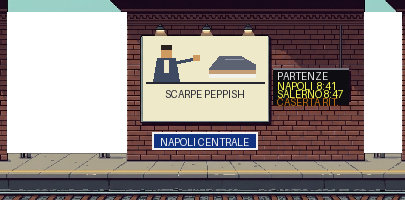
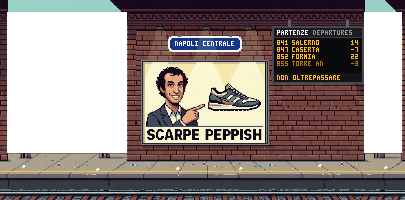
cambi in grafiche: garibaldi cartellone pubblicitario, napoli centrale, tabellone orari

diff --git a/docs/genera-stazione.py b/docs/genera-stazione.py
@@ -1,4 +1,5 @@
 from PIL import Image, ImageDraw
+import font3x5
 import numpy as np, os
 
 SRC = Image.open("/mnt/user-data/uploads/Gemini_Generated_Image_prtqerprtqerprtq.jpeg").convert("RGB")
@@ -47,71 +48,145 @@ dp = ImageDraw.Draw(parete)
 for (x0, x1) in ap:
     dp.rectangle([x0, 12, x1 - 1, GROUND_G - 16], fill=(0, 0, 0, 0))
 
-# --- cartellone: contenuto disegnato a risoluzione di gioco ------------
-BX, BY, BW_, BH_ = 143, 36, 124, 84
+# --- ricopro il pannello vuoto dell'originale con mattoni --------------
+# I mattoni li campiono dalla parete stessa, a destra del tabellone, cosi'
+# la toppa ha la stessa trama e la stessa luce.
 db = ImageDraw.Draw(parete)
-CREMA, SCURO = (238, 233, 201, 255), (38, 38, 48, 255)
-db.rectangle([BX, BY, BX + BW_, BY + BH_], fill=CREMA)
-db.rectangle([BX + 3, BY + 46, BX + BW_ - 3, BY + 47], fill=SCURO)
-# figura generica che indica
-db.rectangle([BX + 18, BY + 12, BX + 28, BY + 21], fill=(206, 154, 96, 255))
-db.rectangle([BX + 18, BY + 9,  BX + 28, BY + 13], fill=(42, 34, 30, 255))
-db.polygon([(BX + 14, BY + 22), (BX + 32, BY + 22), (BX + 36, BY + 45), (BX + 10, BY + 45)],
-           fill=(62, 74, 98, 255))
-db.rectangle([BX + 21, BY + 24, BX + 25, BY + 36], fill=CREMA)
-db.line([BX + 32, BY + 26, BX + 52, BY + 22], fill=(62, 74, 98, 255), width=4)
-db.rectangle([BX + 50, BY + 19, BX + 56, BY + 24], fill=(206, 154, 96, 255))
-# scarpa senza marchio
-db.polygon([(BX + 66, BY + 32), (BX + 76, BY + 20), (BX + 98, BY + 20),
-            (BX + 112, BY + 28), (BX + 112, BY + 35), (BX + 66, BY + 35)], fill=(92, 98, 114, 255))
-db.rectangle([BX + 66, BY + 34, BX + 112, BY + 39], fill=(198, 158, 118, 255))
-db.rectangle([BX + 66, BY + 38, BX + 112, BY + 41], fill=(242, 242, 236, 255))
-db.line([BX + 82, BY + 23, BX + 100, BY + 23], fill=(146, 154, 172, 255), width=1)
-t = "SCARPE PEPPISH"
-tw = db.textlength(t)
-db.text((BX + (BW_ - tw) / 2, BY + 52), t, fill=SCURO)
+mattone = parete.crop((296, 110, 344, 150))   # muro vero: sotto il vecchio tabellone
+# due zone: il pannello vuoto del cartellone, e il vecchio tabellone
+# dell'originale, che altrimenti resterebbe visibile sotto quello nuovo.
+for (rx0, ry0, rx1, ry1) in [(136, 30, 274, 130), (282, 60, 356, 108)]:
+    for yy in range(ry0, ry1, mattone.height):
+        for xx in range(rx0, rx1, mattone.width):
+            ritaglio = mattone.crop((0, 0, min(mattone.width, rx1 - xx),
+                                     min(mattone.height, ry1 - yy)))
+            parete.alpha_composite(ritaglio, (xx, yy))
 
-# --- tabellone partenze, in italiano ----------------------------------
-righe = [("NAPOLI  8:41", (255, 255, 85, 255)),
-         ("SALERNO 8:47", (255, 255, 85, 255)),
-         ("CASERTA RIT.", (190, 110, 20, 255))]
-TW = round(max(db.textlength(r) for r, _ in righe)) + 8
-TH = 36
-TX, TY = 348 - TW, 68
-db.rectangle([TX, TY, TX + TW, TY + TH], fill=(14, 14, 18, 255))
-db.rectangle([TX, TY, TX + TW, TY + 1], fill=(120, 120, 130, 255))
-db.text((TX + 4, TY + 2), "PARTENZE", fill=(235, 235, 235, 255))
-for i, (r, col) in enumerate(righe):
-    db.text((TX + 4, TY + 12 + i * 8), r, fill=col)
-
-# --- cartello di stazione, blu con bordo bianco -----------------------
+# --- cartello di stazione, SOPRA, come quelli delle stazioni italiane --
 nome = "NAPOLI CENTRALE"
-SW = round(db.textlength(nome)) + 16
-SH = 17
-SX, SY = BX + (BW_ - SW) // 2, 132
-BLU = (18, 52, 128, 255)
-db.rectangle([SX, SY, SX + SW, SY + SH], fill=(240, 240, 240, 255))
-db.rectangle([SX + 2, SY + 2, SX + SW - 2, SY + SH - 2], fill=BLU)
-db.text((SX + 8, SY + 4), nome, fill=(245, 245, 245, 255))
+SW = font3x5.larghezza(nome) + 14
+SH = 15
+SX, SY = 143 + (124 - SW) // 2, 36
+BLU = (20, 54, 132, 255)
+db.rounded_rectangle([SX, SY, SX + SW, SY + SH], radius=4, fill=(244, 244, 244, 255))
+db.rounded_rectangle([SX + 2, SY + 2, SX + SW - 2, SY + SH - 2], radius=3, fill=BLU)
+font3x5.scrivi(db, SX + 7, SY + 5, nome, (248, 248, 248, 255))
+# staffe di fissaggio
+for sx in (SX + 10, SX + SW - 12):
+    db.rectangle([sx, SY - 3, sx + 2, SY], fill=(96, 96, 108, 255))
+
+# --- coni di luce delle tre lampade, sopra il cartello -----------------
+luce = Image.new("RGBA", parete.size, (0, 0, 0, 0))
+dl = ImageDraw.Draw(luce)
+for lx in (160, 206, 251):
+    dl.polygon([(lx - 4, 30), (lx + 4, 30), (lx + 13, 62), (lx - 13, 62)],
+               fill=(255, 250, 205, 34))
+parete.alpha_composite(luce)
+
+# --- cartellone pubblicitario, SOTTO -----------------------------------
+PUB = Image.open("/mnt/user-data/uploads/pubbli-fetish.png").convert("RGBA")
+BW_, BH_ = 128, round(128 * PUB.height / PUB.width)
+BX, BY = 143 + (124 - BW_) // 2, 60
+pub = PUB.resize((BW_ - 4, BH_ - 4), N)
+db.rectangle([BX, BY, BX + BW_ - 1, BY + BH_ - 1], fill=(122, 122, 134, 255))
+db.rectangle([BX + 1, BY + 1, BX + BW_ - 2, BY + BH_ - 2], fill=(38, 38, 46, 255))
+parete.alpha_composite(pub, (BX + 2, BY + 2))
+# ombra sotto la cornice, per staccarla dal muro
+omb = Image.new("RGBA", (BW_ + 3, 3), (0, 0, 0, 70))
+parete.alpha_composite(omb, (BX + 2, BY + BH_))
+
+# --- tabellone partenze, sul modello di quelli Trenitalia -------------
+# Struttura del vero: intestazione bianca bilingue, righe in ambra su nero,
+# in basso la striscia con l'avviso sulla linea gialla. Scritte col font
+# 3x5, perche' il font di sistema a queste dimensioni e' illeggibile.
+TX, TY, TW, TH = 274, 28, 88, 54
+AMBRA = (255, 184, 28, 255)
+AMBRA_SCURA = (182, 112, 10, 255)
+db.rectangle([TX - 2, TY - 2, TX + TW + 1, TY + TH + 1], fill=(72, 72, 80, 255))
+db.rectangle([TX, TY, TX + TW - 1, TY + TH - 1], fill=(10, 10, 12, 255))
+db.rectangle([TX, TY, TX + TW - 1, TY + 8], fill=(28, 28, 32, 255))
+font3x5.scrivi(db, TX + 3, TY + 2, "PARTENZE", (246, 246, 246, 255))
+font3x5.scrivi(db, TX + 39, TY + 2, "DEPARTURES", (144, 144, 150, 255))
+db.line([TX, TY + 9, TX + TW - 1, TY + 9], fill=(58, 58, 64, 255))
+
+corse = [("841", "SALERNO",  "14", False),
+         ("847", "CASERTA",  "-7", False),
+         ("852", "FORMIA",   "22", False),
+         ("855", "TORRE AN", "-3", True)]
+for i, (ora, dest, bina, ritardo) in enumerate(corse):
+    y = TY + 12 + i * 7
+    col = AMBRA_SCURA if ritardo else AMBRA
+    font3x5.scrivi(db, TX + 3, y, ora, col)
+    font3x5.scrivi(db, TX + 18, y, dest, col)
+    font3x5.scrivi(db, TX + TW - 11, y, bina, col)
+    if ritardo:
+        font3x5.scrivi(db, TX + 18, y, dest, col)
+
+db.rectangle([TX, TY + TH - 9, TX + TW - 1, TY + TH - 1], fill=(20, 20, 22, 255))
+font3x5.scrivi(db, TX + 3, TY + TH - 7, "NON OLTREPASSARE", AMBRA)
+for sx in (TX + 14, TX + TW - 16):
+    db.rectangle([sx, TY - 8, sx + 2, TY - 2], fill=(96, 96, 104, 255))
+
+# --- cartacce e lattine sulla banchina --------------------------------
+# Dipinte nel fondale: quando vorrai renderle interagibili andranno
+# rifatte come entita', e queste qui si tolgono.
+import random
+random.seed(7)
+CEMENTO_OMBRA = (118, 116, 110, 255)
+def cartaccia(x, y):
+    db.rectangle([x, y, x + 3, y + 1], fill=(228, 226, 216, 255))
+    db.rectangle([x + 1, y - 1, x + 2, y], fill=(244, 242, 234, 255))
+    db.point((x + 3, y + 1), fill=CEMENTO_OMBRA)
+def lattina(x, y):
+    db.rectangle([x, y - 2, x + 1, y + 1], fill=(198, 202, 208, 255))
+    db.rectangle([x, y - 1, x + 1, y], fill=(184, 42, 38, 255))
+    db.point((x + 2, y + 1), fill=CEMENTO_OMBRA)
+def lattina_coricata(x, y):
+    db.rectangle([x, y, x + 4, y + 1], fill=(190, 194, 202, 255))
+    db.rectangle([x + 1, y, x + 2, y + 1], fill=(40, 96, 160, 255))
+    db.point((x + 5, y + 1), fill=CEMENTO_OMBRA)
+def mozzicone(x, y):
+    db.rectangle([x, y, x + 2, y], fill=(216, 210, 190, 255))
+    db.point((x + 2, y), fill=(120, 96, 60, 255))
+
+RIFIUTI = [(cartaccia, 22), (lattina, 58), (mozzicone, 74), (cartaccia, 96),
+           (lattina_coricata, 131), (mozzicone, 148), (cartaccia, 176),
+           (lattina, 203), (mozzicone, 214), (cartaccia, 239),
+           (lattina_coricata, 268), (mozzicone, 292), (cartaccia, 318),
+           (lattina, 341), (mozzicone, 356), (cartaccia, 384)]
+for fn, x in RIFIUTI:
+    fn(x, 164 + random.randint(0, 5))
+
 parete.save(f"{OUT}/parete.png")
 
-# ---- 3. treni: dal fondo magenta, scalati alla fascia -----------------
-tren = SRC.crop((17, 690, 1055, 977)).convert("RGBA")
-a = np.array(tren)
-r, g, b = a[:, :, 0].astype(int), a[:, :, 1].astype(int), a[:, :, 2].astype(int)
-mask = (r > 120) & (b > 120) & (r + b - 2 * g > 90)   # tutto cio' che tende al magenta
+# ---- 3. treni: locomotore + tre vagoni interi -----------------------
+# Nell'originale il terzo veicolo e' tagliato dal bordo dell'area magenta,
+# quindi prendo il vagone completo (452-805) e lo ripeto.
+import numpy as np
+area = SRC.crop((17, 690, 1055, 977)).convert("RGBA")
+a = np.array(area)
+r_, g_, b_ = a[:, :, 0].astype(int), a[:, :, 1].astype(int), a[:, :, 2].astype(int)
+mask = (r_ > 120) & (b_ > 120) & (r_ + b_ - 2 * g_ > 90)
 a[mask] = [0, 0, 0, 0]
-# despill: dove resta una dominante rosa, riporto rosso e blu verso il verde
-resid = (~mask) & (r + b - 2 * g > 40) & (a[:, :, 3] > 0)
-a[:, :, 0] = np.where(resid, np.minimum(r, g + 18), r)
-a[:, :, 2] = np.where(resid, np.minimum(b, g + 18), b)
-tren = Image.fromarray(a)
-bb = tren.getbbox()
-tren = tren.crop(bb)
+resid = (~mask) & (r_ + b_ - 2 * g_ > 40) & (a[:, :, 3] > 0)
+a[:, :, 0] = np.where(resid, np.minimum(r_, g_ + 18), r_)
+a[:, :, 2] = np.where(resid, np.minimum(b_, g_ + 18), b_)
+area = Image.fromarray(a)
+
+TOP, BOT = 44, 248                      # estensione verticale del convoglio
 h = tr_bot - tr_top
-w = round(tren.width * h / tren.height)
-tren = tren.resize((w, h), N)
-strip = Image.new("RGBA", (max(GW, w + 120), h), (0, 0, 0, 0))
-strip.alpha_composite(tren, (0, 0))
+kt = h / (BOT - TOP)
+loco = area.crop((20, TOP, 452, BOT))
+vag = area.crop((452, TOP, 805, BOT))
+lw, vw = round(loco.width * kt), round(vag.width * kt)
+loco = loco.resize((lw, h), N)
+vag = vag.resize((vw, h), N)
+
+VAGONI = 3
+larghezza = lw + vw * VAGONI
+strip = Image.new("RGBA", (larghezza + 84, h), (0, 0, 0, 0))
+strip.alpha_composite(loco, (0, 0))
+for i in range(VAGONI):
+    strip.alpha_composite(vag, (lw + i * vw, 0))
 strip.save(f"{OUT}/treni.png")
-print("treni", strip.size, " (convoglio", tren.size, ")")
+print("treni", strip.size, f"(locomotore {lw} + {VAGONI} vagoni da {vw})")

diff --git a/docs/font3x5.py b/docs/font3x5.py
@@ -1,0 +1,44 @@
+"""
+Font pixel 3x5 disegnato a mano. Serve per le scritte piccole cotte nelle
+texture (tabelloni, cartelli): il font di sistema a queste dimensioni
+sovrappone le righe e dipende da cosa e' installato sulla macchina.
+Passo orizzontale 4 px, verticale 6 px.
+"""
+G = {
+    "A": ".#.|#.#|###|#.#|#.#", "B": "##.|#.#|##.|#.#|##.",
+    "C": "###|#..|#..|#..|###", "D": "##.|#.#|#.#|#.#|##.",
+    "E": "###|#..|##.|#..|###", "F": "###|#..|##.|#..|#..",
+    "G": "###|#..|#.#|#.#|###", "H": "#.#|#.#|###|#.#|#.#",
+    "I": "###|.#.|.#.|.#.|###", "J": "..#|..#|..#|#.#|###",
+    "K": "#.#|#.#|##.|#.#|#.#", "L": "#..|#..|#..|#..|###",
+    "M": "#.#|###|###|#.#|#.#", "N": "##.|#.#|#.#|#.#|#.#",
+    "O": "###|#.#|#.#|#.#|###", "P": "###|#.#|###|#..|#..",
+    "Q": "###|#.#|###|..#|..#", "R": "###|#.#|##.|#.#|#.#",
+    "S": "###|#..|###|..#|###", "T": "###|.#.|.#.|.#.|.#.",
+    "U": "#.#|#.#|#.#|#.#|###", "V": "#.#|#.#|#.#|#.#|.#.",
+    "W": "#.#|#.#|###|###|#.#", "X": "#.#|#.#|.#.|#.#|#.#",
+    "Y": "#.#|#.#|.#.|.#.|.#.", "Z": "###|..#|.#.|#..|###",
+    "0": "###|#.#|#.#|#.#|###", "1": ".#.|##.|.#.|.#.|###",
+    "2": "###|..#|###|#..|###", "3": "###|..#|###|..#|###",
+    "4": "#.#|#.#|###|..#|..#", "5": "###|#..|###|..#|###",
+    "6": "###|#..|###|#.#|###", "7": "###|..#|..#|..#|..#",
+    "8": "###|#.#|###|#.#|###", "9": "###|#.#|###|..#|..#",
+    ":": "...|.#.|...|.#.|...", ".": "...|...|...|...|.#.",
+    "-": "...|...|###|...|...", "/": "..#|..#|.#.|#..|#..",
+    "'": ".#.|.#.|...|...|...", " ": "...|...|...|...|...",
+}
+PASSO_X, PASSO_Y = 4, 6
+
+def larghezza(testo):
+    return max(0, len(testo) * PASSO_X - 1)
+
+def scrivi(draw, x, y, testo, colore):
+    """Disegna il testo in maiuscolo. I caratteri sconosciuti diventano spazi."""
+    for i, ch in enumerate(testo.upper()):
+        g = G.get(ch)
+        if not g:
+            continue
+        for ry, riga in enumerate(g.split("|")):
+            for rx, c in enumerate(riga):
+                if c == "#":
+                    draw.point((x + i * PASSO_X + rx, y + ry), fill=colore)

diff --git a/docs/genera-cd.py b/docs/genera-cd.py
@@ -1,0 +1,25 @@
+from PIL import Image
+import os
+SRC = Image.open("/mnt/user-data/uploads/centro-direzionale.jpeg").convert("RGBA")
+OUT = "/home/claude/skin-cd"
+N = Image.NEAREST
+os.makedirs(OUT, exist_ok=True)
+
+# I passanti nel disegno hanno i piedi a y=568: e' la quota del marciapiede.
+# Scalando cosi', quella quota cade su GROUND_Y=168 e l'immagine intera
+# occupa esattamente 200 px di altezza.
+GROUND_SRC = 568
+GH = 200
+k = GH / SRC.height
+GW = round(SRC.width * k)
+scena = SRC.resize((GW, GH), N)
+print("scena", scena.size, " suolo a y =", round(GROUND_SRC * k))
+
+# taglio dove i palazzi incontrano le fioriere: sopra la citta' lontana,
+# sotto la piazza su cui si cammina
+TAGLIO = round(472 * k)
+citta = scena.crop((0, 0, GW, TAGLIO + 3))
+piazza = scena.crop((0, TAGLIO, GW, GH))
+citta.save(f"{OUT}/citta.png")
+piazza.save(f"{OUT}/piazza.png")
+print("citta", citta.size, " piazza", piazza.size, " taglio a y =", TAGLIO)

diff --git a/docs/LEGGIMI.md b/docs/LEGGIMI.md
@@ -1,52 +1,31 @@
-# Skin "garibaldi2" - stazione di Piazza Garibaldi
+# Fondale del Centro Direzionale (stage 2)
 
-Ricomposta dall'immagine di riferimento alla risoluzione del gioco, senza
-ridisegnare: la scena e' stata ritagliata, scalata e divisa in tre piani.
+Ricavato dall'immagine di riferimento, scalata a 303x200. I passanti disegnati
+hanno i piedi a y=568 nell'originale: a questa scala quella quota cade
+esattamente su GROUND_Y=168, quindi il protagonista cammina dove cammina la
+gente nel disegno.
 
-## Come e' fatta
-
-L'originale e' 1072x992 e contiene due cose: la scena della stazione in alto e
-il convoglio su fondo magenta in basso. La scena e' stata tagliata a y=530,
-scartando il livello di servizio sotto i binari che non entra in 200 px, e
-scalata a **405x200**. A quella scala la banchina cade esattamente a y=168, che
-e' il `GROUND_Y` del gioco: i piedi del protagonista poggiano dove devono.
+Due piani, tagliati dove i palazzi incontrano le fioriere:
 
 | file | y | altezza | scorrimento |
 |------|---|---------|-------------|
-| `fondo.png` | 0 | 168 | 0.35, lontano |
-| `treni.png` | 104 | 47 | 0.6 + velocita' 9 px/s |
-| `parete.png` | 0 | 200 | 1, ancorato |
+| `citta.png` | 0 | 142 | 0.45, la citta' lontana scorre piu' lenta |
+| `piazza.png` | 139 | 61 | 1, ancorata al mondo |
 
-`parete.png` e' la scena completa (muro, cartellone, banchina, binari) con due
-**aperture trasparenti** dove nell'originale si vede fuori: e' da li' che si
-intravede il convoglio che passa. `fondo.png` non e' la scena intera ma solo il
-contenuto di un'apertura, ripetuto: se contenesse anche il muro, scorrendo in
-parallasse comparirebbero mattoni dentro le aperture.
+Il piano basso si sovrappone di 3 px a quello alto, cosi' la parallasse non
+apre una fessura sul taglio.
 
-Il convoglio viene dal fondo magenta dell'originale, scontornato con una soglia
-sul magenta piu' una correzione dell'alone rosato sui bordi.
+`hero.png` e' lo stesso foglio dello skin garibaldi2: va replicato qui perche'
+ogni skin e' autonomo.
 
-## Cosa e' stato ridisegnato
+## Nota sul gatto e sul topo
 
-Tre elementi sono stati rifatti a risoluzione di gioco, quindi sono nitidi e in
-italiano:
+Sono ancora cotti dentro `piazza.png`. Quando faremo gli attori di fondale
+animati vanno tolti da li' e rifatti come sprite a se', altrimenti si vedranno
+doppi: uno fermo e uno in movimento.
 
-- **Il cartellone** aveva il pannello vuoto: contiene ora la figura che indica,
-  la scarpa e la scritta SCARPE PEPPISH.
-- **Il tabellone partenze** diceva DEPARTURES con testo illeggibile: ora e'
-  PARTENZE con Napoli, Salerno e Caserta in ritardo.
-- **Il cartello di stazione** blu con bordo bianco, che nell'originale non
-  c'era.
+## Limite noto
 
-## Limiti noti
-
-La parete si ripete ogni 405 px, cioe' poco piu' di una schermata: con la
-camera che salta di 320 px alla volta, il tabellone partenze a volte cade a
-cavallo del bordo dello schermo. Per evitarlo servirebbe una parete larga 640
-con gli elementi distribuiti diversamente.
-
-## Rigenerare
-
-`genera-stazione.py` ricostruisce i tre piani dall'immagine sorgente. In cima
-ci sono le coordinate misurate sull'originale: `GROUND_SRC` (dove poggiano i
-piedi), `APERTURE` (le finestre nel muro) e `TRENO_SRC` (la fascia dei treni).
+Il fondale si ripete ogni 303 px, cioe' poco meno di una schermata. Su uno
+stage largo 1920 si ripete sei volte e mezzo, e i due lampioni ai lati sono
+l'elemento che si nota di piu'.
